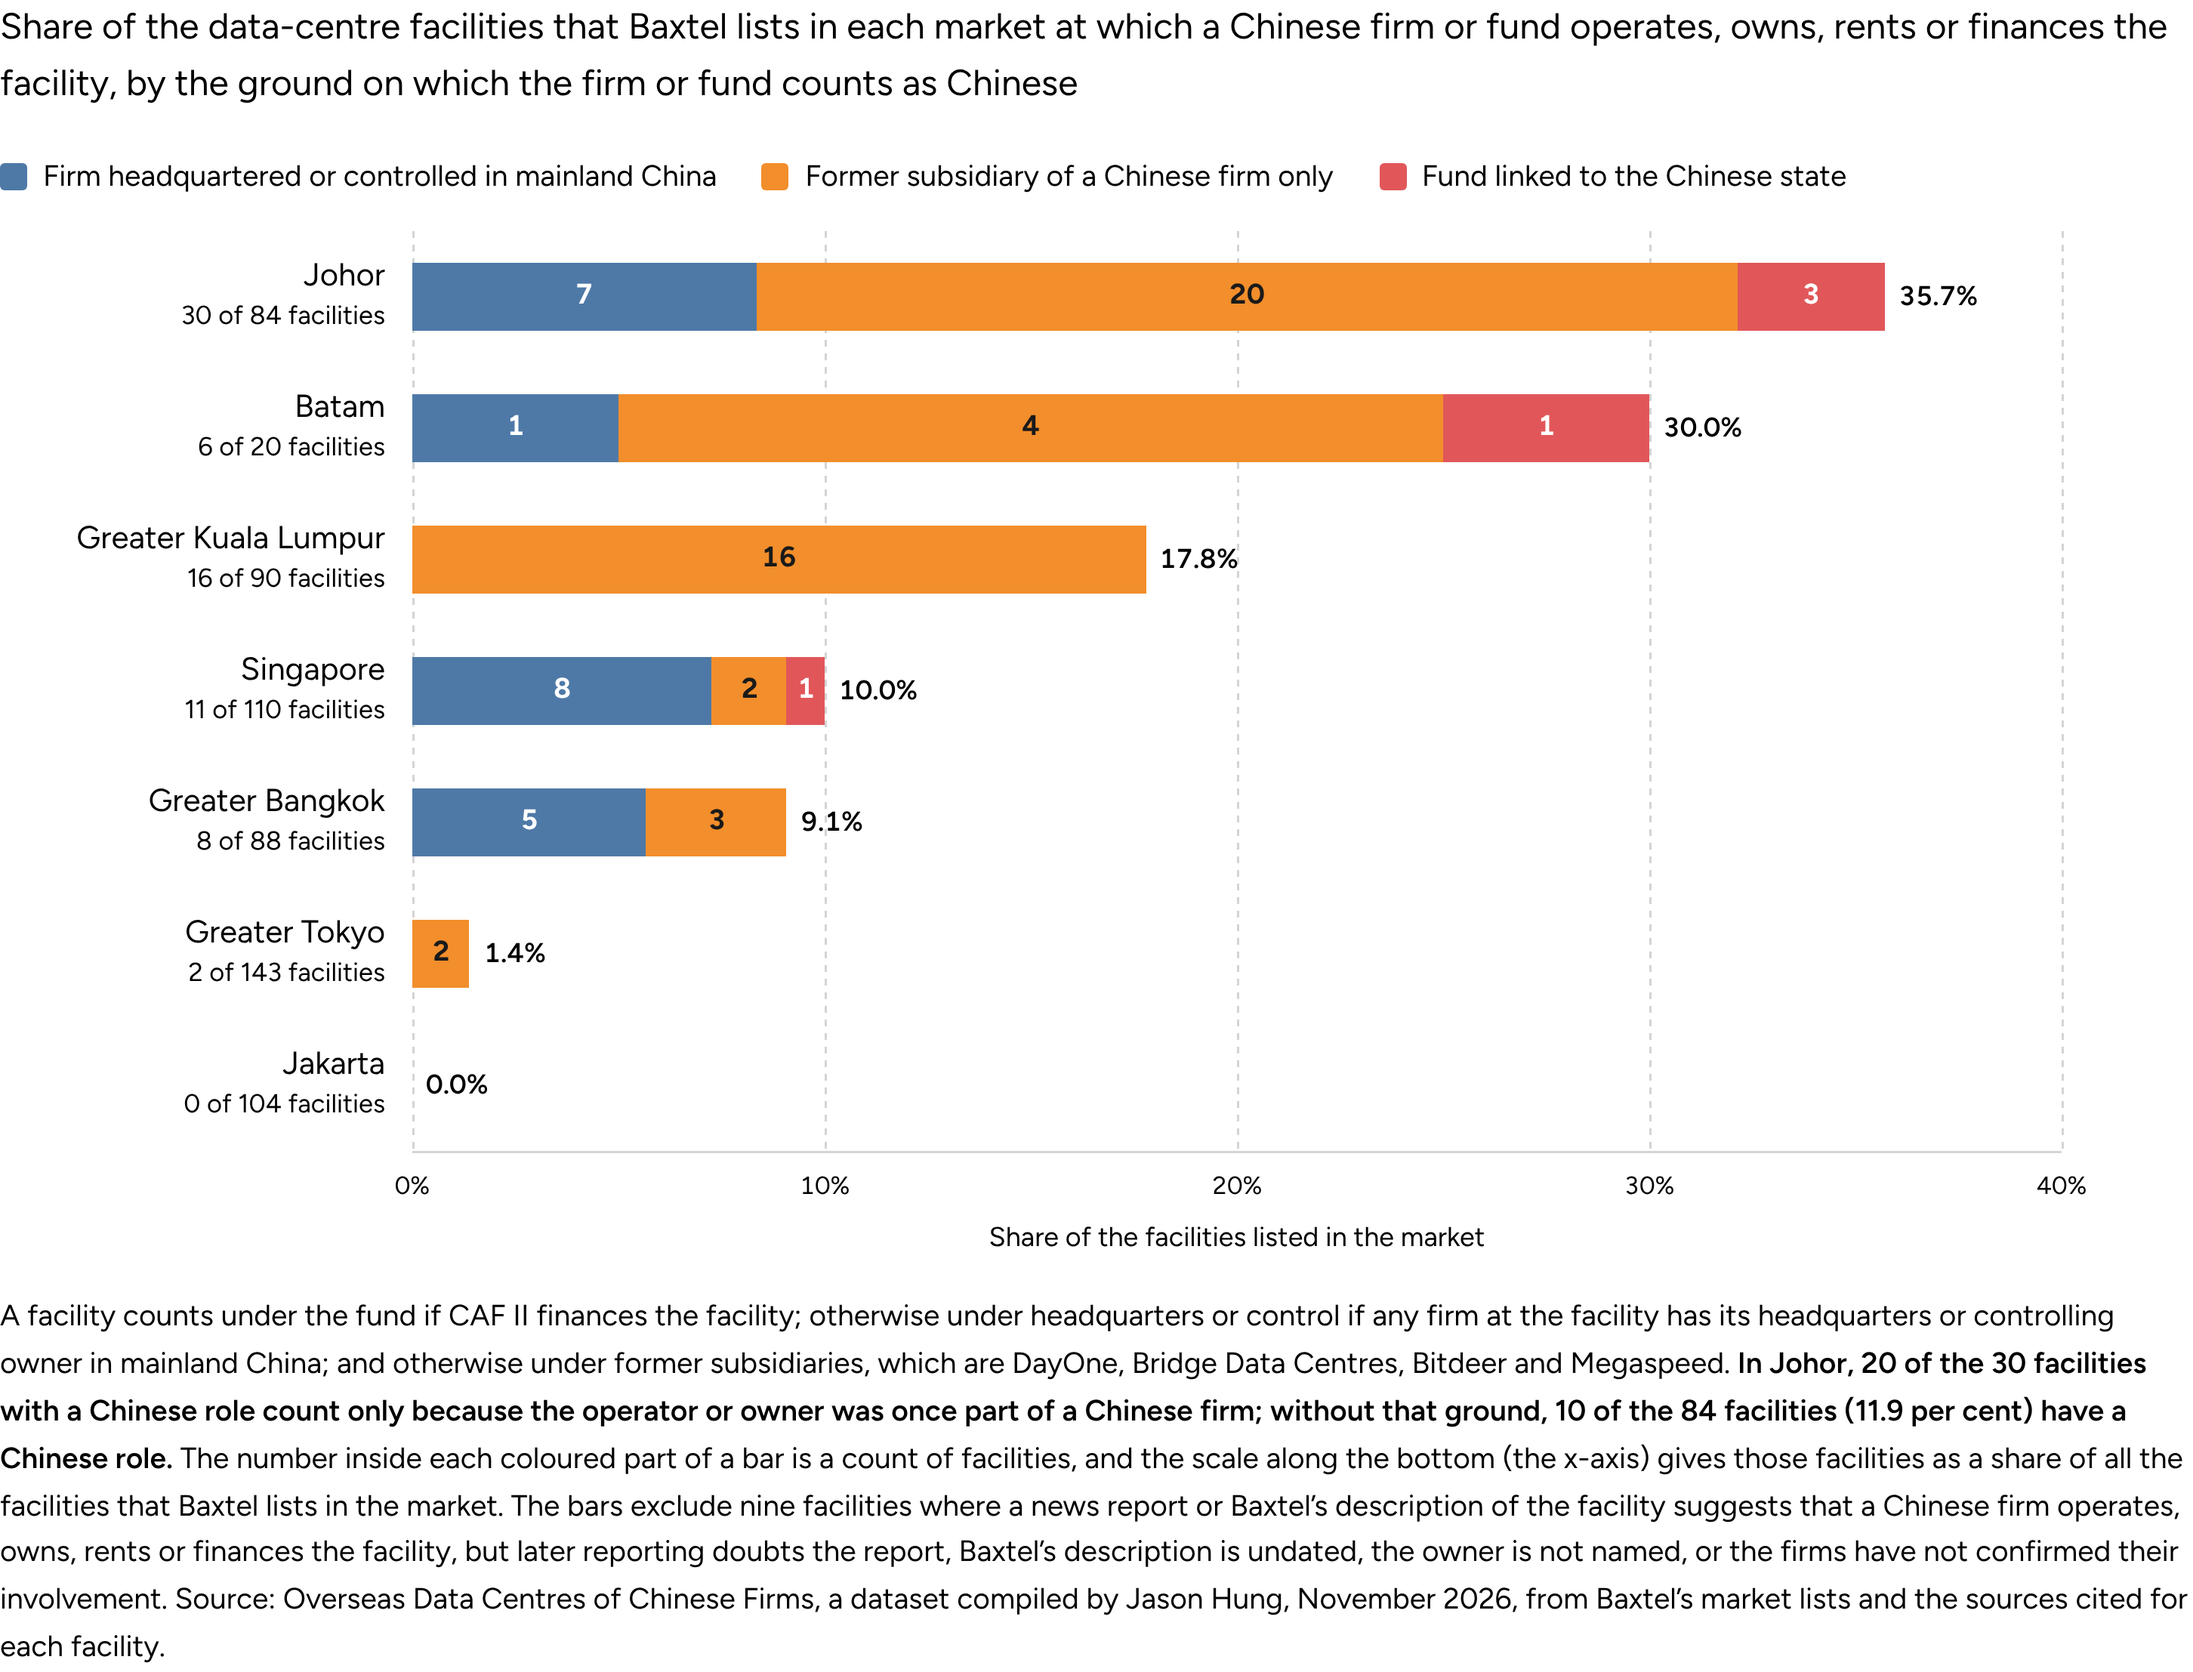
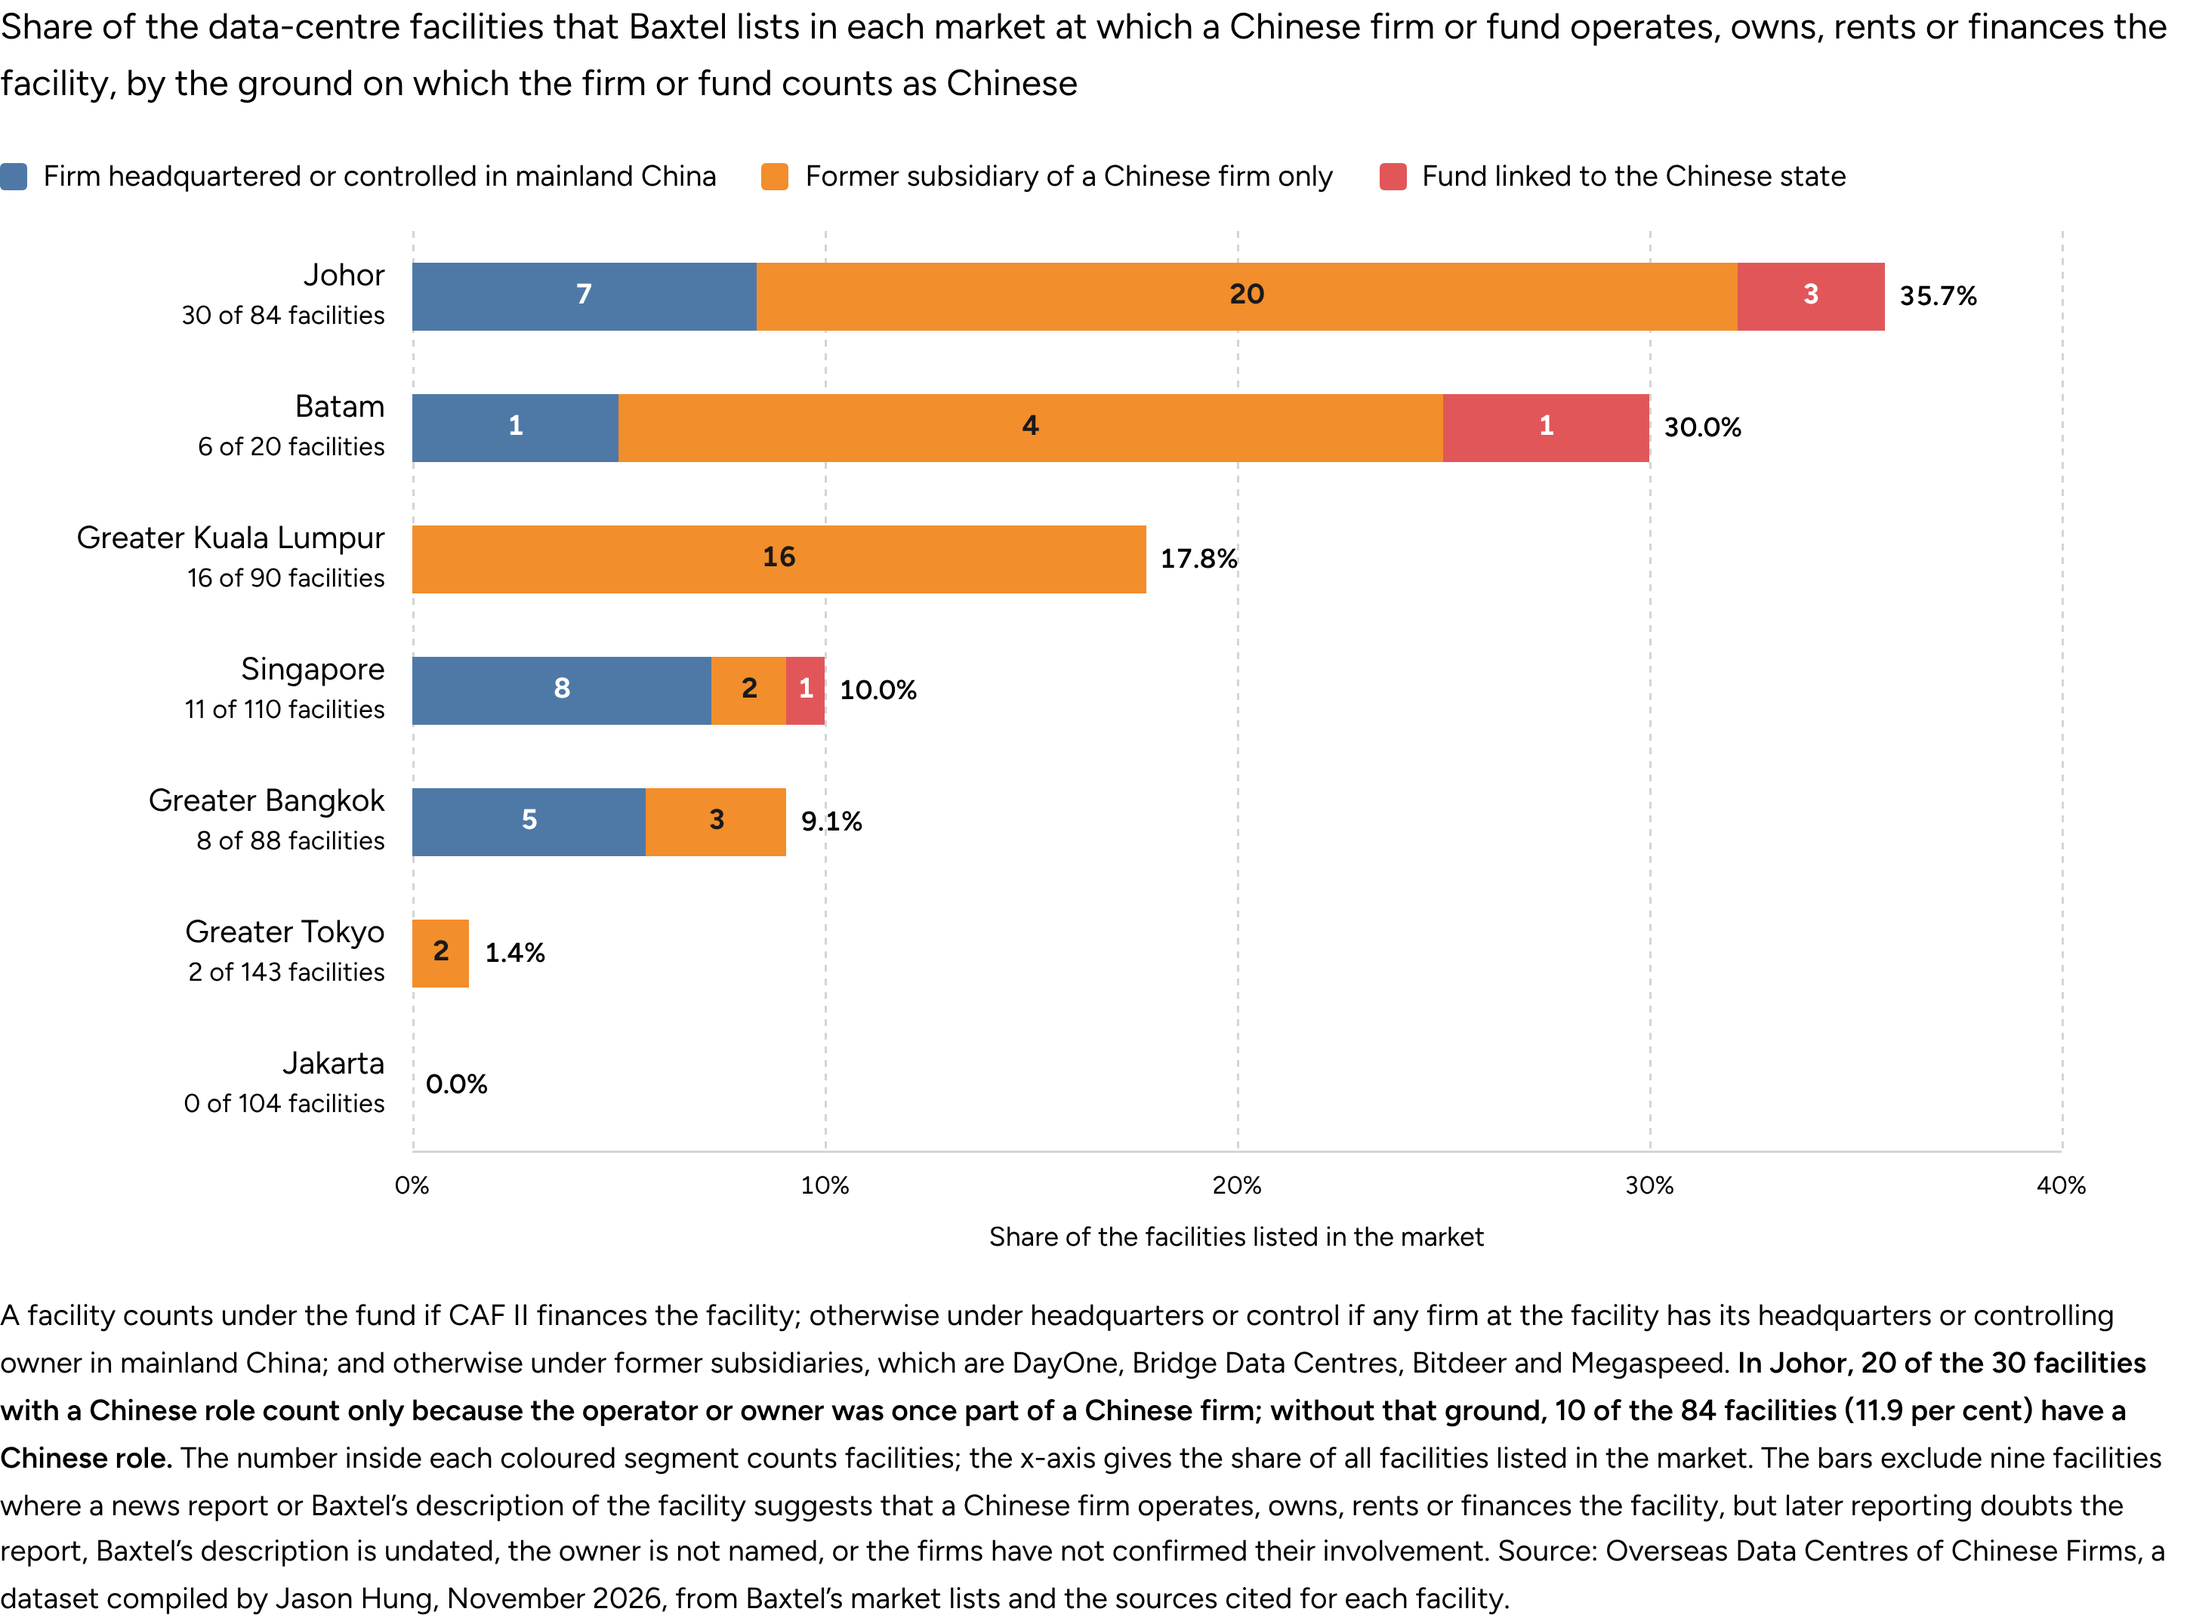
Restore the earlier wording of the chart note, naming the x-axis

diff --git a/site/figures/seven-markets.html b/site/figures/seven-markets.html
@@ -790,7 +790,7 @@ or finances the facility, by the ground on which the firm or fund counts as Chin
 headquarters or control if any firm at the facility has its headquarters or controlling owner in mainland China; and otherwise under former
 subsidiaries, which are DayOne, Bridge Data Centres, Bitdeer and Megaspeed. <b>In Johor, 20 of the 30 facilities with a Chinese role count only
 because the operator or owner was once part of a Chinese firm; without that ground, 10 of the 84 facilities (11.9 per cent) have a Chinese
-role.</b> The number inside each coloured part of a bar is a count of facilities, and the scale along the bottom (the x-axis) gives those facilities as a share of all the facilities that Baxtel lists in the market. The bars exclude nine facilities where a news report or Baxtel’s description of the facility suggests that a Chinese firm operates, owns, rents or finances the facility, but later reporting doubts the report, Baxtel’s description is undated, the owner is not named, or the firms have not confirmed their involvement. Source: Overseas Data Centres
+role.</b> The number inside each coloured segment counts facilities; the x-axis gives the share of all facilities listed in the market. The bars exclude nine facilities where a news report or Baxtel’s description of the facility suggests that a Chinese firm operates, owns, rents or finances the facility, but later reporting doubts the report, Baxtel’s description is undated, the owner is not named, or the firms have not confirmed their involvement. Source: Overseas Data Centres
 of Chinese Firms, a dataset compiled by Jason Hung, November 2026, from Baxtel&rsquo;s market lists and the sources cited for each facility.</p>
 </section></main><div class="fx-card" id="fx-card" hidden role="status" aria-live="polite"></div><script>
 window.fxCard=(function(){
